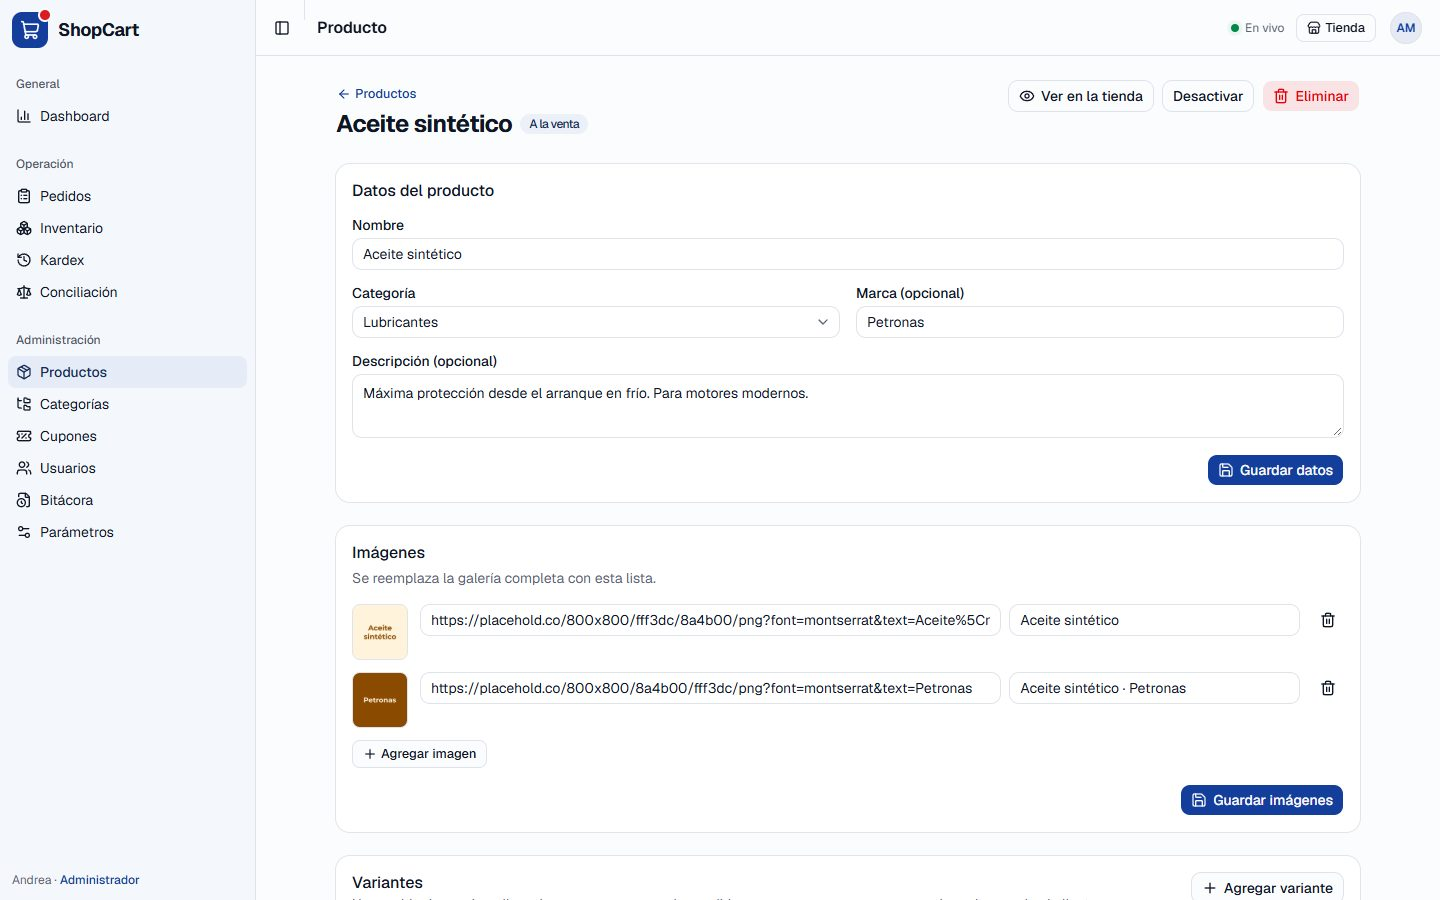
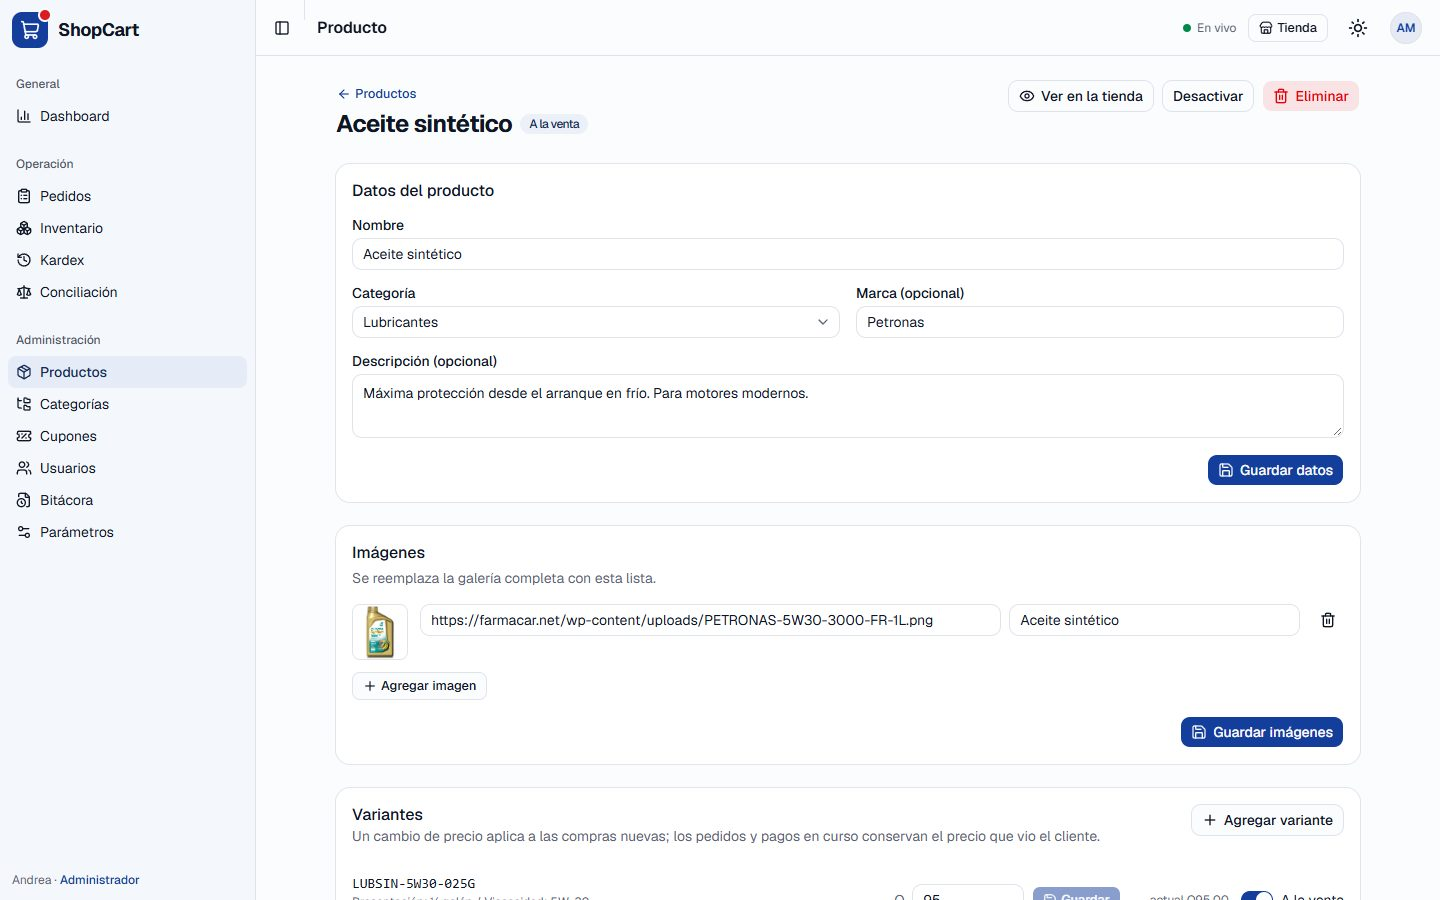
docs: nota de imágenes del catálogo y capturas con las fotos nuevas

diff --git a/README.md b/README.md
@@ -2,7 +2,7 @@
 
 Plataforma web de ventas para el **Tech Challenge 360** de Grupo Pentandra. Una red de estaciones de servicio que hoy vende lubricantes, accesorios y productos de conveniencia solo en sus estaciones quiere su tienda en línea, con envío a domicilio o para **recoger en la estación**: catálogo con variantes, carrito, cupones, checkout con pago, seguimiento de pedidos, inventario con kardex, reportes y bitácora.
 
-> El catálogo está inspirado en lo que vende una red de estaciones en Guatemala, pero **los productos, precios y existencias son de referencia (inventados)** y las imágenes son genéricas: no se usan logos, fotos ni identidad de ninguna empresa. Las marcas de lubricantes aparecen solo como dato del producto. No se vende combustible ni nada con alcohol.
+> El catálogo está inspirado en lo que vende una red de estaciones en Guatemala, pero **los productos, precios y existencias son de referencia (inventados)** y no se usan el logo, las fotos ni la identidad de esa empresa. Cada producto muestra una foto de referencia enlazada por URL: el empaque real para los de marca (Castrol, Havoline, Petronas, Repsol, Bardahl), tomado del fabricante o de tiendas en línea, y fotos de Unsplash o de tiendas para los de marca propia. Las fotos no se copian al repositorio. No se vende combustible ni nada con alcohol.
 
 Este repositorio es el **proyecto completo**:
 
@@ -352,7 +352,7 @@ Dentro de cada módulo: `api.ts` (llamadas y tipos) → hooks de TanStack Query 
     - Una sola serie por gráfica.
     - Colores validados de contraste y daltonismo en modo claro y oscuro.
     - Las ventas en el tiempo tienen vista de tabla; las barras de categorías muestran su monto.
-14. **Imágenes genéricas** (con el nombre del producto). Si una URL no carga, se muestra el ícono de la categoría.
+14. **Fotos de referencia por URL** (ver la nota del inicio). Si una URL externa deja de cargar, se muestra el ícono de la categoría y el administrador puede cambiarla desde el editor del producto. Un producto sin foto recibe en la semilla una imagen genérica con su nombre.
 15. **Modo oscuro** (claro, oscuro o como el sistema). `public/tema.js` aplica el tema antes de pintar, sin parpadeo. Es un archivo propio y no un script en línea porque la CSP solo permite scripts del mismo origen.
 16. **Exportar a CSV** las ventas, las categorías y el top 10 del rango elegido. Se arma en el navegador con las mismas cifras que devolvió la API, con BOM para que Excel lea las tildes. Los textos que empiezan con `=`, `+`, `-` o `@` se neutralizan para que Excel no los ejecute como fórmula.
 
